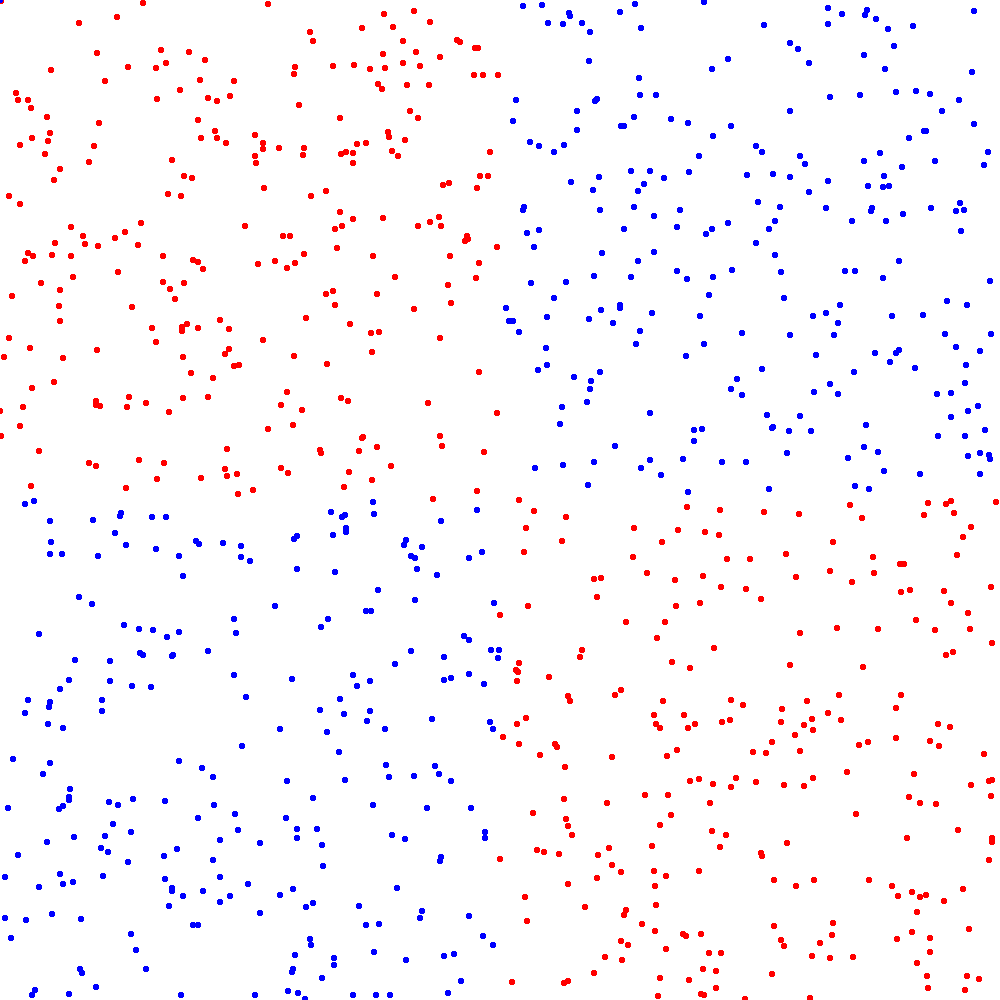
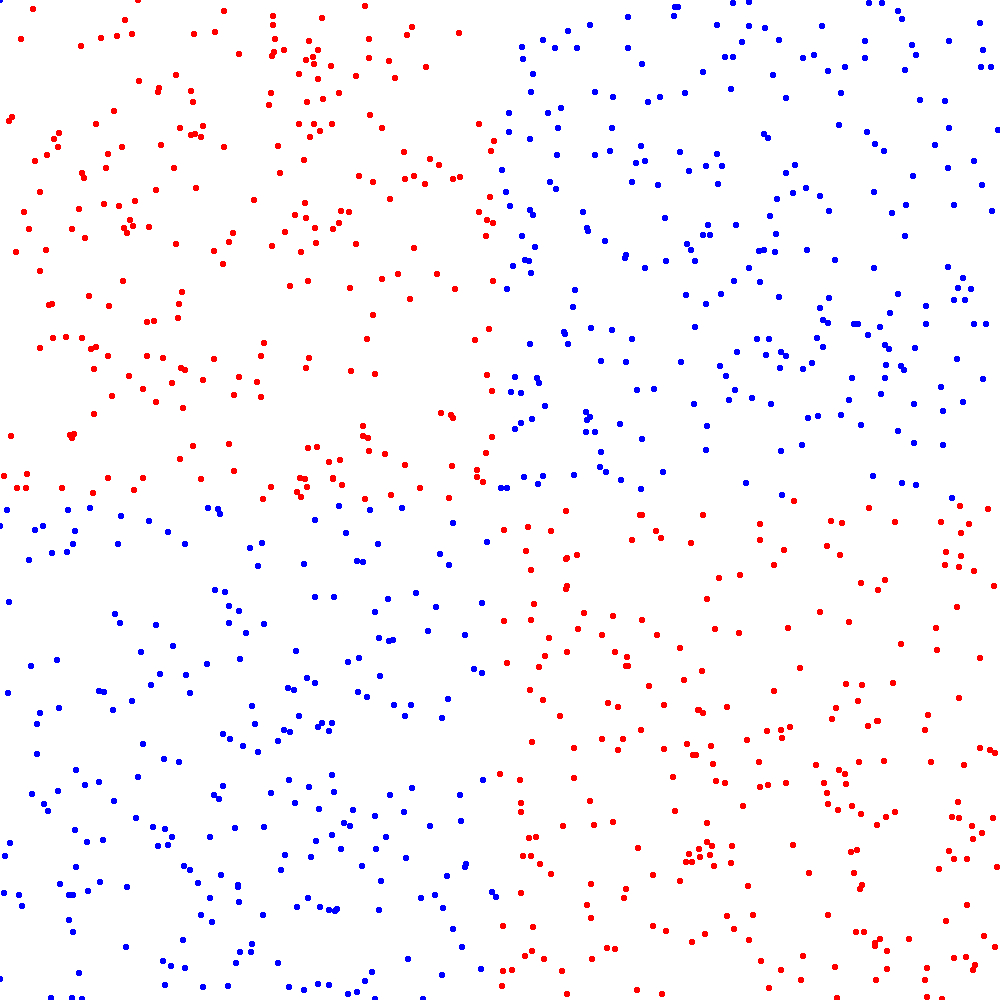
misc

diff --git a/ClassificationApp/Program.cs b/ClassificationApp/Program.cs
@@ -25,7 +25,7 @@ namespace ClassificationApp
 				ActivationFunction.Sigmoid
 			};
 			ChiruMath.PARALLEL = false;
-			var parameters = DeepNeuralNetwork.Model(trainX, trainY, new int[] { 5, 2 }, activations, 0.001, 10000, null, (i, c) =>
+			var parameters = DeepNeuralNetwork.Model(trainX, trainY, new int[] { 5, 2 }, activations, 0.002, 50000, null, (i, c) =>
 			{
 				if(i % (10000 * .1) == 0)
 					Console.WriteLine($"[{i}] : {c}");
@@ -35,6 +35,7 @@ namespace ClassificationApp
 			canvas = new SKCanvas(bitmap);
 			DrawData(trainX, pY, canvas);
 			Save(bitmap, "predict.png");
+			Console.ReadLine();
 		}
 
 		static void Save(SKBitmap bitmap, string name)
@@ -48,7 +49,7 @@ namespace ClassificationApp
 
 		static (ChiruMatrix X, ChiruMatrix Y) GenerateData(int m)
 		{
-			Random rand = new Random();
+			Random rand = new Random(2);
 			double[,] X = new double[2, m], Y = new double[1, m];
 			for (int n = 0; n < 1000; n++)
 			{

diff --git a/ChiruApp/MainWindow.xaml.cs b/ChiruApp/MainWindow.xaml.cs
@@ -92,10 +92,7 @@ namespace ChiruApp
 			_hasData = true;
 			testingSetDisplay.ItemsSource = await UpdateDataDisplay(_testX, _testY, true);
 			UpdateButtons();
-<<<<<<< HEAD
-=======
 			dataSetShape.Content = _testX.Shape.ToString();
->>>>>>> 6cbe5af4361e7b2dc77ff2fd3fa209ff05ff6085
 		}
 
 		private (ChiruMatrix X, ChiruMatrix Y) LoadData(string xL, string yL)
@@ -351,15 +348,12 @@ namespace ChiruApp
 		{
 			var a = GetActivations();
 			_predictY = await Task.Run(() => DeepNeuralNetwork.Predict(_parameters, _testX, a));
-<<<<<<< HEAD
-=======
 			UpdatePredictStats();
 		}
 
 		private void UpdatePredictStats()
 		{
 			predictAccuracy.Content = _predictY.IsEmpty() ? "No Data" :  _predictY.ErrorWith(_testY).ToString();
->>>>>>> 6cbe5af4361e7b2dc77ff2fd3fa209ff05ff6085
 		}
 
 		private void AddLayer(object sender, RoutedEventArgs e)
